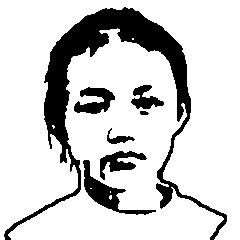
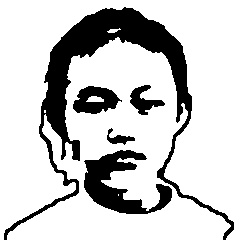
17.10.26 13:57

diff --git a/faceFeature/partitionMethod.py b/faceFeature/partitionMethod.py
@@ -150,7 +150,7 @@ def removeBackground(srcImg):
     return img
 #通过人脸检测裁剪人脸
 def tailorImg(img,faces):
-    if len(faces) == 1:
+    if len(faces) == 1 or len(faces)>1:
         for i,(x,y,w,h) in enumerate(faces):
             #注意不要越界
             new_x = x - int(w/3) if x - int(w/3)>0 else 0
@@ -188,13 +188,17 @@ def getMaxArea(new_skin):
     return len(contours),maxValue
 #轮廓完善
 def skeletonComplete(imgResult,imgSKIN,imgFace):
-    kernel = cv2.getStructuringElement(cv2.MORPH_RECT, (3, 3))
+    kernel = cv2.getStructuringElement(cv2.MORPH_RECT, (5, 5))
     new_skin = imgSKIN
     new_skin = cv2.medianBlur(new_skin,3)
-    new_skin = cv2.erode(new_skin, kernel)
     new_skin = cv2.dilate(new_skin, kernel)
     new_skin = cv2.erode(new_skin, kernel)
     new_skin = cv2.dilate(new_skin, kernel)
+    new_skin = cv2.erode(new_skin, kernel)
+    new_skin = cv2.dilate(new_skin, kernel)
+    new_skin = cv2.dilate(new_skin, kernel)
+    new_skin = cv2.erode(new_skin, kernel)
+    new_skin = cv2.erode(new_skin, kernel)
     new_skin = RemoveSmallRegion(new_skin,3000,0,1)
 
     count,maxth = getMaxArea(new_skin)
@@ -202,17 +206,20 @@ def skeletonComplete(imgResult,imgSKIN,imgFace):
     if count != 1:
         new_skin = RemoveSmallRegion(new_skin,maxth-1000,1,1)
     cv2.imshow("new_skin",new_skin)
-
-    #binary, contours, hierarchy = cv2.findContours(new_skin, cv2.RETR_TREE, cv2.CHAIN_APPROX_NONE)
-    #cv2.drawContours(binary, contours, -1, (0, 0, 255), 3)
-    #cv2.imshow("inver",binary)
-    img = cv2.GaussianBlur(new_skin, (3, 3), 0)  # 高斯平滑处理原图像降噪
-    canny = cv2.Canny(img, 50, 150)  # apertureSize默认为3
-    ret,skeleton = cv2.threshold(canny,100,255,cv2.THRESH_BINARY_INV)
-    kernel = cv2.getStructuringElement(cv2.MORPH_RECT, (3, 3))
-    skeleton = cv2.erode(skeleton, kernel)
-    #skeleton = cv2.erode(skeleton, kernel)
-    result = cv2.bitwise_and(skeleton,imgResult)
+    if count == 1 and maxth > 3/5*(new_skin.shape[0]*new_skin.shape[1]):
+        print("轮廓面积过大，不认为是正常的轮廓！")
+        result = imgResult
+    else:
+        #binary, contours, hierarchy = cv2.findContours(new_skin, cv2.RETR_TREE, cv2.CHAIN_APPROX_NONE)
+        #cv2.drawContours(binary, contours, -1, (0, 0, 255), 3)
+        #cv2.imshow("inver",binary)
+        img = cv2.GaussianBlur(new_skin, (3, 3), 0)  # 高斯平滑处理原图像降噪
+        canny = cv2.Canny(img, 50, 150)  # apertureSize默认为3
+        ret,skeleton = cv2.threshold(canny,100,255,cv2.THRESH_BINARY_INV)
+        kernel = cv2.getStructuringElement(cv2.MORPH_RECT, (3, 3))
+        skeleton = cv2.erode(skeleton, kernel)
+        #skeleton = cv2.erode(skeleton, kernel)
+        result = cv2.bitwise_and(skeleton,imgResult)
     cv2.imshow("skeletonComplete",result)
     return result
 #去除二值图像边缘的突出部
@@ -440,7 +447,7 @@ def divisionThreshold(imgSKIN,imgFace,imgCanny,imgHair):
 
     print("平均亮度",theta)
     sp = imgSKIN.shape
-    divisionCount = math.floor(sp[1]/10)
+    divisionCount = math.floor(sp[1]/20)
     #初始化数组大小
     imgSegment = [None] * divisionCount
     imgSkinSegment = [None] * divisionCount
@@ -476,7 +483,7 @@ def divisionThreshold(imgSKIN,imgFace,imgCanny,imgHair):
     for i in range(newSkin.shape[0]):
         for j in range(newSkin.shape[1]):
             if newSkin[i, j] > 100:
-                if newHair[i,j] == 0 and newFace[i, j] < 20 and i < newSkin.shape[0] / 2:
+                if newHair[i,j] == 0 and newFace[i, j] < 30 and i < newSkin.shape[0] / 2:
                     dst[i, j] = 0
     ret,dst = cv2.threshold(dst,100,255,cv2.THRESH_BINARY)
     return dst,newSkin,newFace
@@ -517,7 +524,7 @@ def processImg(img):
         exit(0)
     #获取到的人物头像前景图
     imgFace = tailorImg(img,faces)
-    imgFace = cv2.medianBlur(imgFace,3)
+
     imgFace = removeBackground(imgFace)
 
     #获取imgFace的肤色图
@@ -527,8 +534,8 @@ def processImg(img):
     #对肤色图进行修剪
     #skinTemp = cv2.erode(imgFace_Skin, kernel)
     imgFace_Skin = RemoveSelectRegion(imgFace_Skin,100,0,1,1)
-    imgFace_Skin = cv2.dilate(imgFace_Skin, kernel)
-    imgFace_Skin = cv2.dilate(imgFace_Skin, kernel)
+    #imgFace_Skin = cv2.dilate(imgFace_Skin, kernel)
+    #imgFace_Skin = cv2.dilate(imgFace_Skin, kernel)
 
     #harlan
     imgFace_Skin = RemoveSelectRegion(imgFace_Skin,3000,100,0,1)
@@ -549,10 +556,10 @@ def processImg(img):
 #整套图片处理
 def createResult():
     i = 1
-    while i <= 52:
+    while i <= 68:
         print(i)
         img = cv2.imread("img/" + str(i) + ".jpg", 1)
-
+        img = cv2.medianBlur(img,3)
         dst = processImg(img)
         dst = cv2.medianBlur(dst, 3)
         dst = RemoveSelectRegion(dst, 20, 0, 0, 1)
@@ -562,9 +569,12 @@ def createResult():
         i = i + 1
 #单个图片处理
 def unitTest():
-    img = cv2.imread("img/64.jpg",1)
+    img = cv2.imread("img/53.jpg",1)
+    img = cv2.medianBlur(img,3)
+
     dst = processImg(img)
-    dst = cv2.medianBlur(dst,3)
+    img = cv2.medianBlur(img,3)
+
     dst = RemoveSelectRegion(dst,20,0,0,1)
     dst = delete_jut(dst,1,1,1)
     dst = delete_jut(dst,1,1,0)
@@ -574,6 +584,6 @@ if __name__ == '__main__':
     gamma = 0.580
     lamda = 0.6600
     bata = 0.3400
-    unitTest()
+    createResult()
     cv2.waitKey(0)
 
